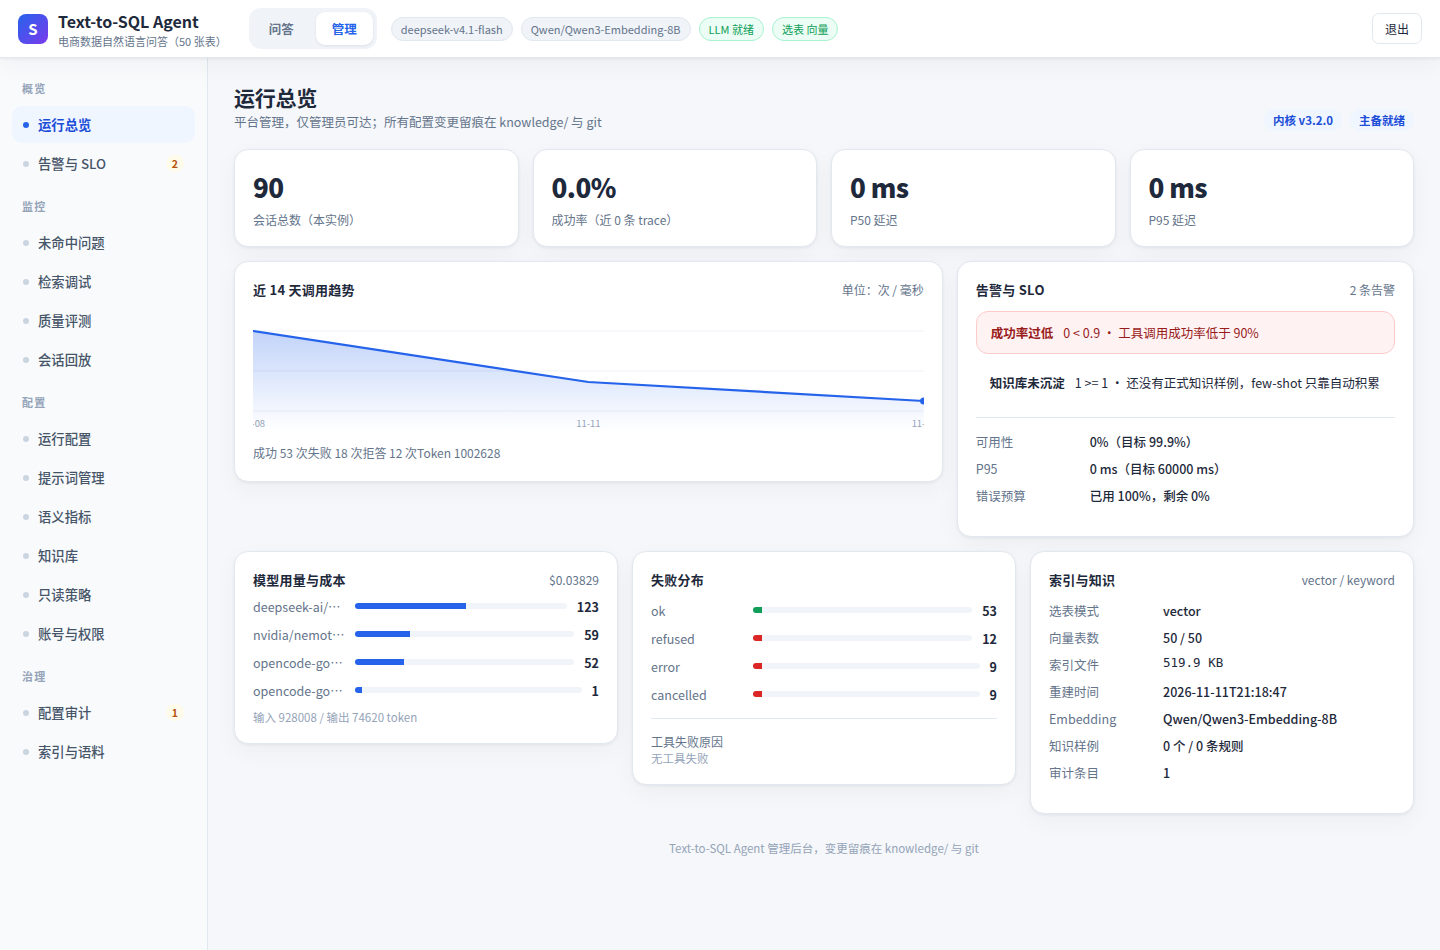
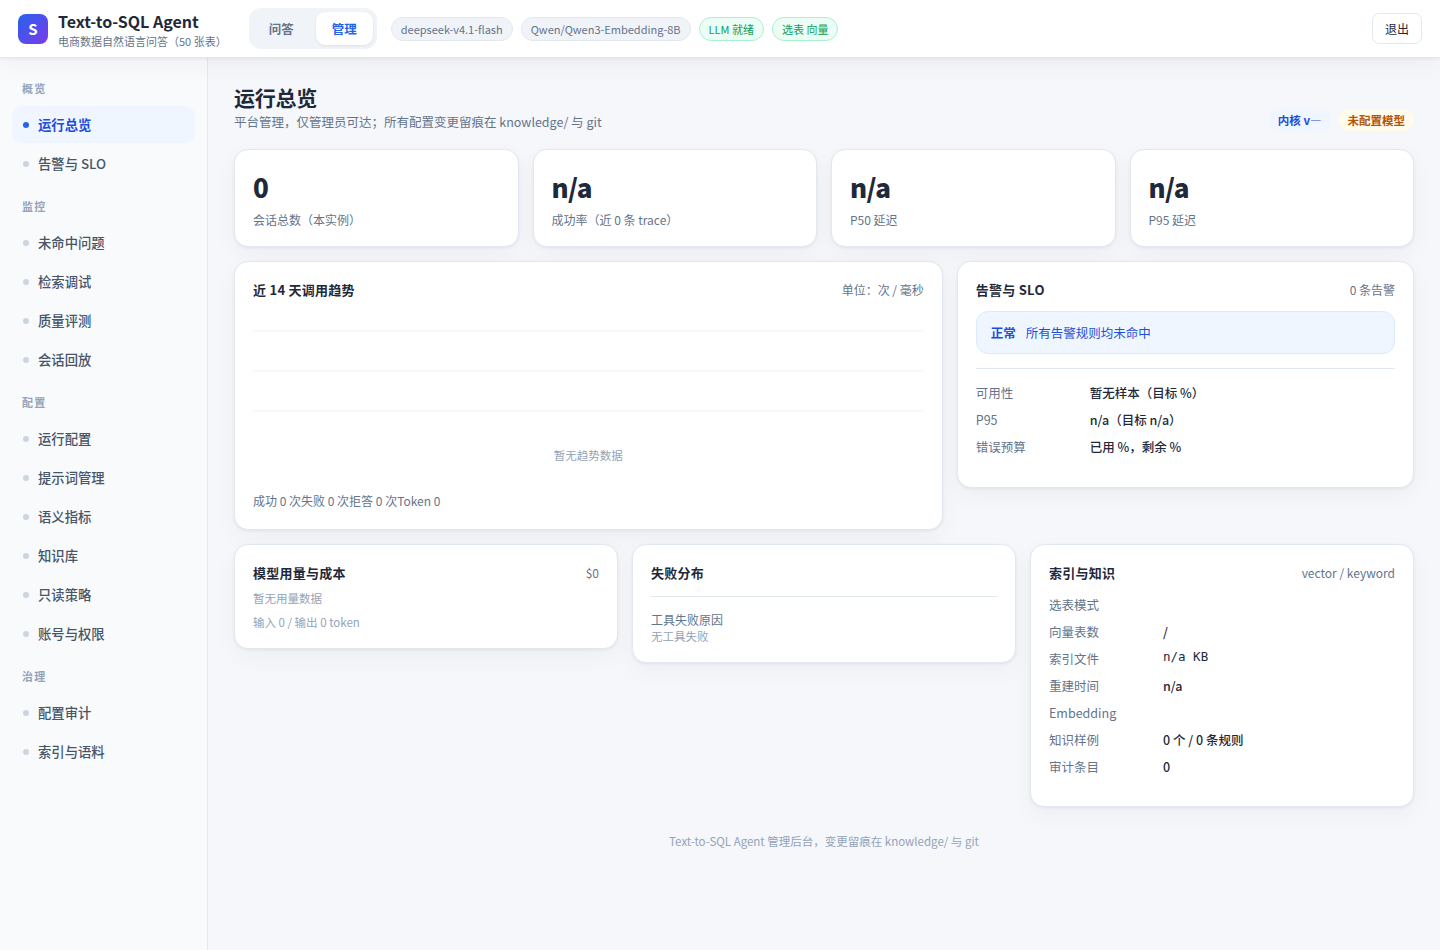
fix: SLO 无样本时不再显示 0% 可用性

diff --git a/frontend/src/components/AdminPanel.vue b/frontend/src/components/AdminPanel.vue
@@ -71,7 +71,8 @@
             </div>
             <div class="adm-divider"></div>
             <dl class="adm-kv">
-              <dt>可用性</dt><dd>{{ slo?.availability }}%（目标 {{ slo?.availability_target }}%）</dd>
+              <dt>可用性</dt>
+              <dd>{{ slo?.availability == null ? '暂无样本' : slo.availability + '%' }}（目标 {{ slo?.availability_target }}%）</dd>
               <dt>P95</dt><dd>{{ ms(slo?.latency_p95_ms) }}（目标 {{ ms(slo?.latency_target_ms) }}）</dd>
               <dt>错误预算</dt>
               <dd>已用 {{ slo?.error_budget_used_pct }}%，剩余 {{ slo?.error_budget_remaining_pct }}%</dd>
@@ -147,7 +148,8 @@
             <div class="adm-h2">服务等级目标</div>
             <dl class="adm-kv">
               <dt>可用性</dt>
-              <dd>{{ alertsData?.slo?.availability }}% / 目标 {{ alertsData?.slo?.availability_target }}%</dd>
+              <dd>{{ alertsData?.slo?.availability == null ? '暂无样本' : alertsData.slo.availability + '%' }}
+                / 目标 {{ alertsData?.slo?.availability_target }}%</dd>
               <dt>P95 延迟</dt>
               <dd>{{ ms(alertsData?.slo?.latency_p95_ms) }} / 目标 {{ ms(alertsData?.slo?.latency_target_ms) }}</dd>
               <dt>错误预算</dt>

diff --git a/backend/app/alerts.py b/backend/app/alerts.py
@@ -202,17 +202,17 @@ def slo(ctx: dict) -> dict:
     traces = int(metrics.get("traces") or 0)
     target_p95 = 60000.0
     p95 = float((metrics.get("latency_ms") or {}).get("p95") or 0.0)
-    success = float(metrics.get("success_rate") or 0.0)
+    success = float(metrics.get("success_rate") or 0.0) if traces else None
     budget = 0.001  # 允许 0.1% 失败
     used = max(0.0, 1.0 - success)
     return {
-        "availability": round(success * 100, 2),
+        "availability": round(success * 100, 2) if success is not None else None,
         "availability_target": 99.9,
         "latency_p95_ms": p95,
         "latency_target_ms": target_p95,
         "latency_ok": p95 <= target_p95,
         "error_budget_pct": round(budget * 100, 3),
-        "error_budget_used_pct": round(used * 100, 3),
+        "error_budget_used_pct": round(used * 100, 3) if success is not None else 0.0,
         "error_budget_remaining_pct": round(max(0.0, budget - used) * 100, 3),
         "traces": traces,
     }
